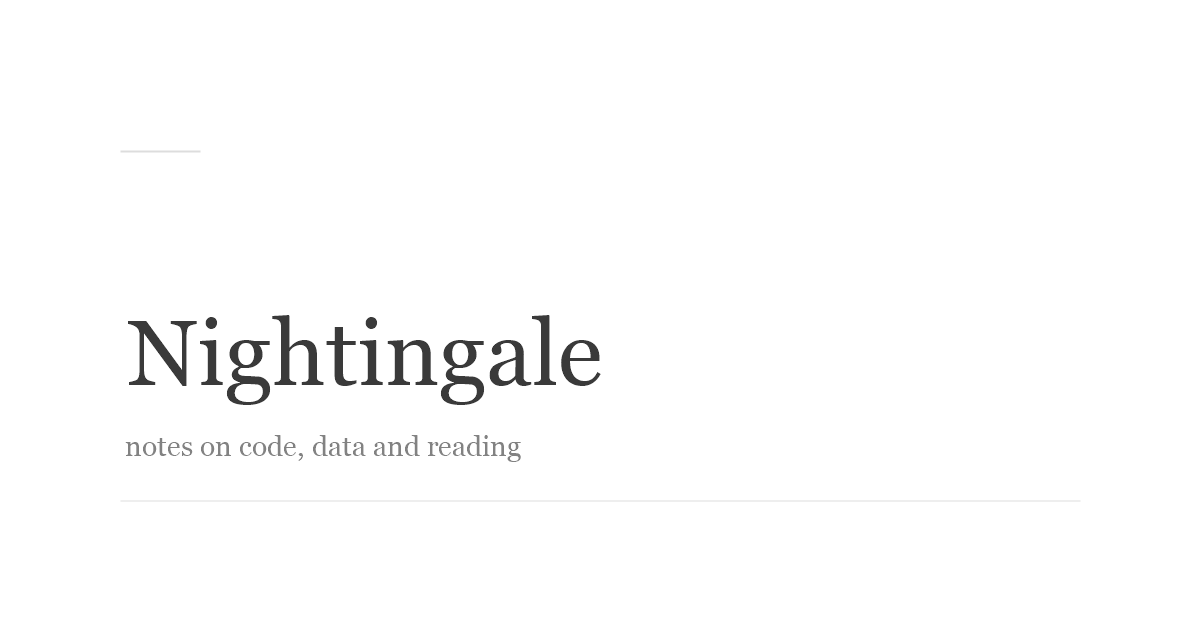
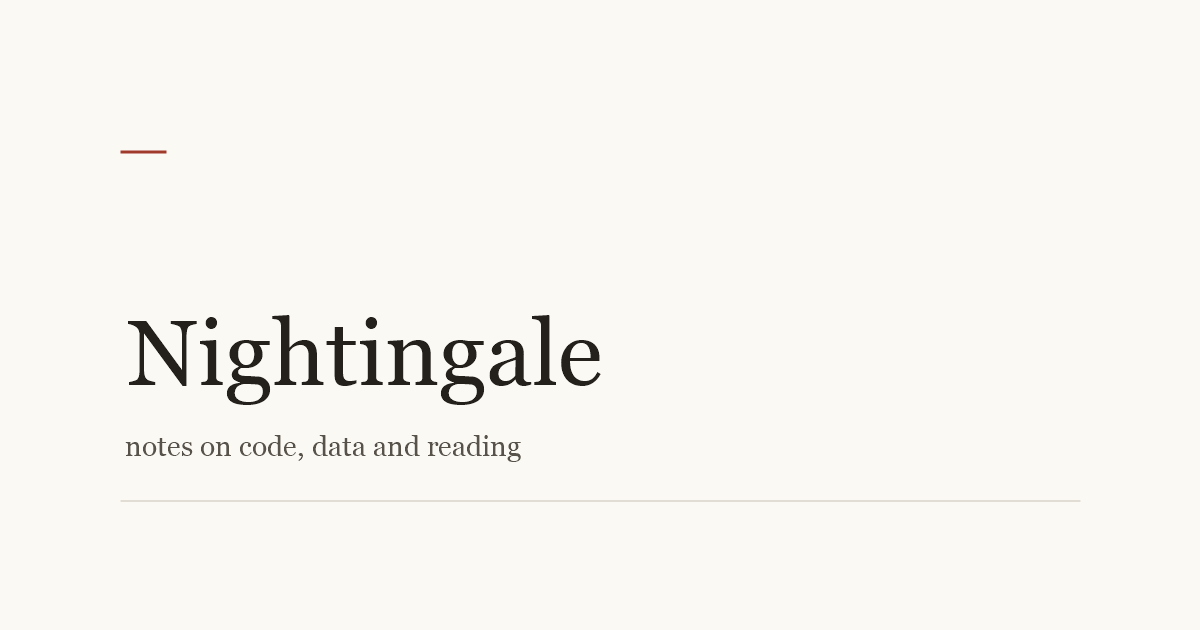
feat(design): paper/ink/vermilion palette, no synthetic italics
Adopt the paper/ink/vermilion direction on top of the existing semantic tokens, and stop the browser from synthesizing italics for Chinese text.

Palette (critical.css + dark-mode.css):
- light: paper #fbf9f4, ink #24211c, ink-2 #57534b, hairline #e2ddd2, seal red #a03a2b
- dark: warm black #191817, paper ink #d8d3c8, accent #cf7a63
- code/subtle fill #f3efe6 (light) / #211f1c (dark); selection, table stripes/hover, nav lines and menu shadow re-tinted to match
- H2 full-width border replaced by a short 2.25rem vermilion chapter rule; blockquote uses the accent bar
- theme-color metas, favicon and the default OG card regenerated on paper
- e-book reader now uses --bg-color instead of its hard-coded brown, so reader and site share one paper (light and dark)

Typography:
- removed every handwritten font-style: italic (list titles, dates, fig captions, home intro, bookshelf intro/author, last-modified) - Chinese has no true italic, so these used to be synthetic obliques
- list titles are upright 500; dates are small caps with 0.16em tracking; last-modified is a right-aligned small-caps colophon line
- only generated Chroma CSS (code comments) keeps italics

Verified: ink contrast 15.2:1 (light) / 11.9:1 (dark); tokens present in prod/dev/minify/subpath builds; article/list/home/bookshelf/search/404/reader use paper bg; light and dark reader; print footnotes unaffected; no handwritten CSS italics left. Before/after screenshots: .review/design-v3/.

Changed region(s): [[0.0925, 0.4825, 0.5242, 0.6635], [0.1233, 0.7841, 0.8942, 0.8143], [0.0925, 0.6937, 0.4317, 0.7238]]

diff --git a/assets/css/modules/critical.css b/assets/css/modules/critical.css
@@ -5,21 +5,25 @@
    ========================================================================== */
 
 :root {
-    --primary-color: #0066cc;
-    --text-color: #3a3a3a;
-    --text-color-light: #444;
-    --bg-color-light: #f8f9fa;
-    --border-color: #ddd;
-    --link-border-color: #ccc;
-    --code-color: #d6336c;
-    --bg-color: #ffffff;
-    --nav-menu-bg: #ffffff;
-    --decor-line: rgba(128, 128, 128, 0.4);
-    --decor-line-strong: rgba(128, 128, 128, 0.7);
-    --table-stripe: rgba(0, 0, 0, 0.02);
-    --table-hover: rgba(0, 123, 255, 0.04);
-    --selection-bg: var(--primary-color);
-    --selection-fg: var(--bg-color);
+    /* Paper / ink / vermilion palette.
+       Light = warm paper with ink text and seal-red accent;
+       dark = warm black with soft paper-colored ink. */
+    --primary-color: #a03a2b;      /* 朱砂 / seal red: active, hover, footnote refs */
+    --text-color: #24211c;         /* ink */
+    --text-color-light: #57534b;   /* ink-2: dates, captions, secondary text */
+    --text-color-muted: #8a8478;   /* ink-3: decorative / non-essential text */
+    --bg-color: #fbf9f4;           /* paper */
+    --bg-color-light: #f3efe6;     /* code & subtle fill */
+    --border-color: #e2ddd2;       /* hairline rule */
+    --link-border-color: #c9c2b4;  /* stronger rule: link underline, control border */
+    --code-color: #a03a2b;         /* inline code */
+    --nav-menu-bg: #fffdf8;
+    --decor-line: #d8d1c3;
+    --decor-line-strong: #c9c2b4;
+    --table-stripe: #f5f1e8;
+    --table-hover: rgba(160, 58, 43, 0.06);
+    --selection-bg: #a03a2b;
+    --selection-fg: #fbf9f4;
     --menu-shadow: none;
     --font-serif: 'EB Garamond', 'EB Garamond Fallback Georgia', 'EB Garamond Fallback Times', 'Noto Serif SC', 'Songti SC', 'SimSun', 'Noto Serif CJK SC', serif;
     --font-mono: Consolas, Courier, 'Lucida Console', 'Courier New', 'Kai SC', 'Kai TC', monospace;

diff --git a/assets/css/modules/dark-mode.css b/assets/css/modules/dark-mode.css
@@ -3,23 +3,25 @@
    6. Dark Mode
 
    Only the color tokens are overridden here; every component reads them.
+   Warm black + soft paper ink (see the light palette in critical.css).
    ========================================================================== */
 
 :root.dark {
-    --primary-color: #5baeff;
-    --text-color: #c5c5c5;
-    --text-color-light: #a0a0a0;
-    --bg-color-light: #252528;
-    --border-color: #3a3a3e;
-    --link-border-color: #555;
-    --code-color: #e083a8;
-    --bg-color: #1e1e22;
-    --nav-menu-bg: #2c2c30;
-    --decor-line: rgba(180, 180, 180, 0.4);
-    --decor-line-strong: rgba(180, 180, 180, 0.7);
-    --table-stripe: rgba(255, 255, 255, 0.03);
-    --table-hover: rgba(77, 166, 255, 0.08);
-    --selection-bg: #4da6ff;
-    --selection-fg: #1a1a1e;
-    --menu-shadow: 0 2px 8px rgba(0, 0, 0, 0.4);
+    --primary-color: #cf7a63;
+    --text-color: #d8d3c8;
+    --text-color-light: #a8a296;
+    --text-color-muted: #767167;
+    --bg-color: #191817;
+    --bg-color-light: #211f1c;
+    --border-color: #2f2c27;
+    --link-border-color: #4a463f;
+    --code-color: #cf7a63;
+    --nav-menu-bg: #211f1c;
+    --decor-line: #312d28;
+    --decor-line-strong: #4a463f;
+    --table-stripe: #201d1a;
+    --table-hover: rgba(207, 122, 99, 0.08);
+    --selection-bg: #cf7a63;
+    --selection-fg: #191817;
+    --menu-shadow: 0 2px 8px rgba(0, 0, 0, 0.55);
 }

diff --git a/assets/css/modules/typography.css b/assets/css/modules/typography.css
@@ -32,8 +32,18 @@ h1 {
 
 h2 {
     font-size: clamp(1.2rem, 2.2vw, 1.5rem);
-    padding-bottom: 0.3em;
-    border-bottom: 1px solid var(--border-color);
+    padding-bottom: 0;
+    border-bottom: none;
+}
+
+/* Chapter marker: the only decorative vermilion in the theme. */
+h2::after {
+    content: '';
+    display: block;
+    width: 2.25rem;
+    height: 2px;
+    margin-top: 0.45em;
+    background-color: var(--primary-color);
 }
 
 h3 {
@@ -49,7 +59,7 @@ blockquote {
     color: var(--text-color-light);
     margin: 0;
     padding: 1px 1em;
-    border-left: .2em solid var(--border-color);
+    border-left: 2px solid var(--primary-color);
 }
 
 /* --- Horizontal Rule --- */
@@ -81,10 +91,10 @@ article ol ul {
 /* --- Last Modified --- */
 .last-modified {
     text-align: right;
-    font-size: 0.8em;
+    font-size: 0.78em;
+    letter-spacing: 0.08em;
     color: var(--text-color-light);
     margin-top: 2em;
-    font-style: italic;
 }
 
 /* Link Styles */

diff --git a/layouts/partials/head.html b/layouts/partials/head.html
@@ -39,8 +39,8 @@
     <link rel="icon" type="image/svg+xml" href="{{ "favicon.svg" | relURL }}">
 
     {{/* Browser UI color per scheme (matches --white-color light/dark). */}}
-    <meta name="theme-color" content="#ffffff" media="(prefers-color-scheme: light)">
-    <meta name="theme-color" content="#1e1e22" media="(prefers-color-scheme: dark)">
+    <meta name="theme-color" content="#fbf9f4" media="(prefers-color-scheme: light)">
+    <meta name="theme-color" content="#191817" media="(prefers-color-scheme: dark)">
 
     <meta property="og:title" content="{{ if .IsHome }}{{ .Site.Title }}{{ else }}{{ $pageTitle }} | {{ .Site.Title }}{{ end }}">
     <meta property="og:type" content="{{ if .IsPage }}article{{ else }}website{{ end }}">

diff --git a/assets/css/modules/article-list.css b/assets/css/modules/article-list.css
@@ -28,20 +28,22 @@
 }
 
 .post-date {
-    font-size: 0.85rem;
+    font-size: 0.72rem;
+    letter-spacing: 0.16em;
+    text-transform: uppercase;
+    font-variant-numeric: lining-nums;
     color: var(--text-color-light);
-    min-width: 90px;
+    min-width: 96px;
     margin-right: 1rem;
-    font-style: italic;
 }
 
 .post-link {
     font-family: var(--font-serif);
     font-size: 1.05rem;
+    font-weight: 500;
     color: var(--text-color);
     flex: 1;
     transition: color 0.2s ease;
-    font-style: italic;
 }
 
 .post-link:hover {

diff --git a/assets/css/ebook-reader.css b/assets/css/ebook-reader.css
@@ -8,10 +8,6 @@
     flex-direction: column;
     height: 100vh;
     overflow: hidden;
-    background: #f5f0e8;
-}
-
-:root.dark .ebook-reader-body {
     background: var(--bg-color);
 }
 
@@ -293,10 +289,6 @@
 }
 
 :root.dark .toc-sidebar {
-    background: var(--bg-color);
-}
-
-:root.dark .ebook-reader-body {
     background: var(--bg-color);
 }
 

diff --git a/assets/css/modules/bookshelf.css b/assets/css/modules/bookshelf.css
@@ -20,7 +20,6 @@
     text-align: center;
     color: var(--text-color-light);
     margin-bottom: 2rem;
-    font-style: italic;
 }
 
 .book-list {
@@ -57,7 +56,6 @@
 .book-list-author {
     font-size: 0.85rem;
     color: var(--text-color-light);
-    font-style: italic;
     white-space: nowrap;
     margin-left: auto;
 }

diff --git a/assets/css/modules/home.css b/assets/css/modules/home.css
@@ -8,7 +8,6 @@
 .home-content>p:first-of-type {
     margin: 1rem 0;
     text-align: center;
-    font-style: italic;
     color: var(--text-color-light);
     font-size: 1.1rem;
     position: relative;

diff --git a/assets/css/modules/article.css b/assets/css/modules/article.css
@@ -19,6 +19,5 @@ article figure img {
 article figcaption {
     font-size: 0.85rem;
     color: var(--text-color-light);
-    font-style: italic;
     margin-top: 0.25rem;
 }

diff --git a/README.md b/README.md
@@ -27,6 +27,9 @@ hugo --themesDir ../.. --baseURL https://example.org/blog/ --minify
 - **Typography first**: EB Garamond + Noto Serif SC, fixed 1.7 line-height,
   `text-autospace` for mixed CJK/Latin, oldstyle figures, metric-compatible
   local font fallbacks (`size-adjust`) to keep CLS at zero while webfonts load.
+- **Paper palette**: warm paper `#fbf9f4`, ink `#24211c` and seal red `#a03a2b`
+  for accents (dark: `#191817` / `#d8d3c8` / `#cf7a63`). Chinese text stays
+  upright (no synthetic italics); chapter headings carry a short vermilion rule.
 - **Sidenotes**: footnotes move into the left margin on wide screens and stay as
   end-of-article notes on narrow screens; positions are re-measured when images,
   fonts or the TOC change the layout.
